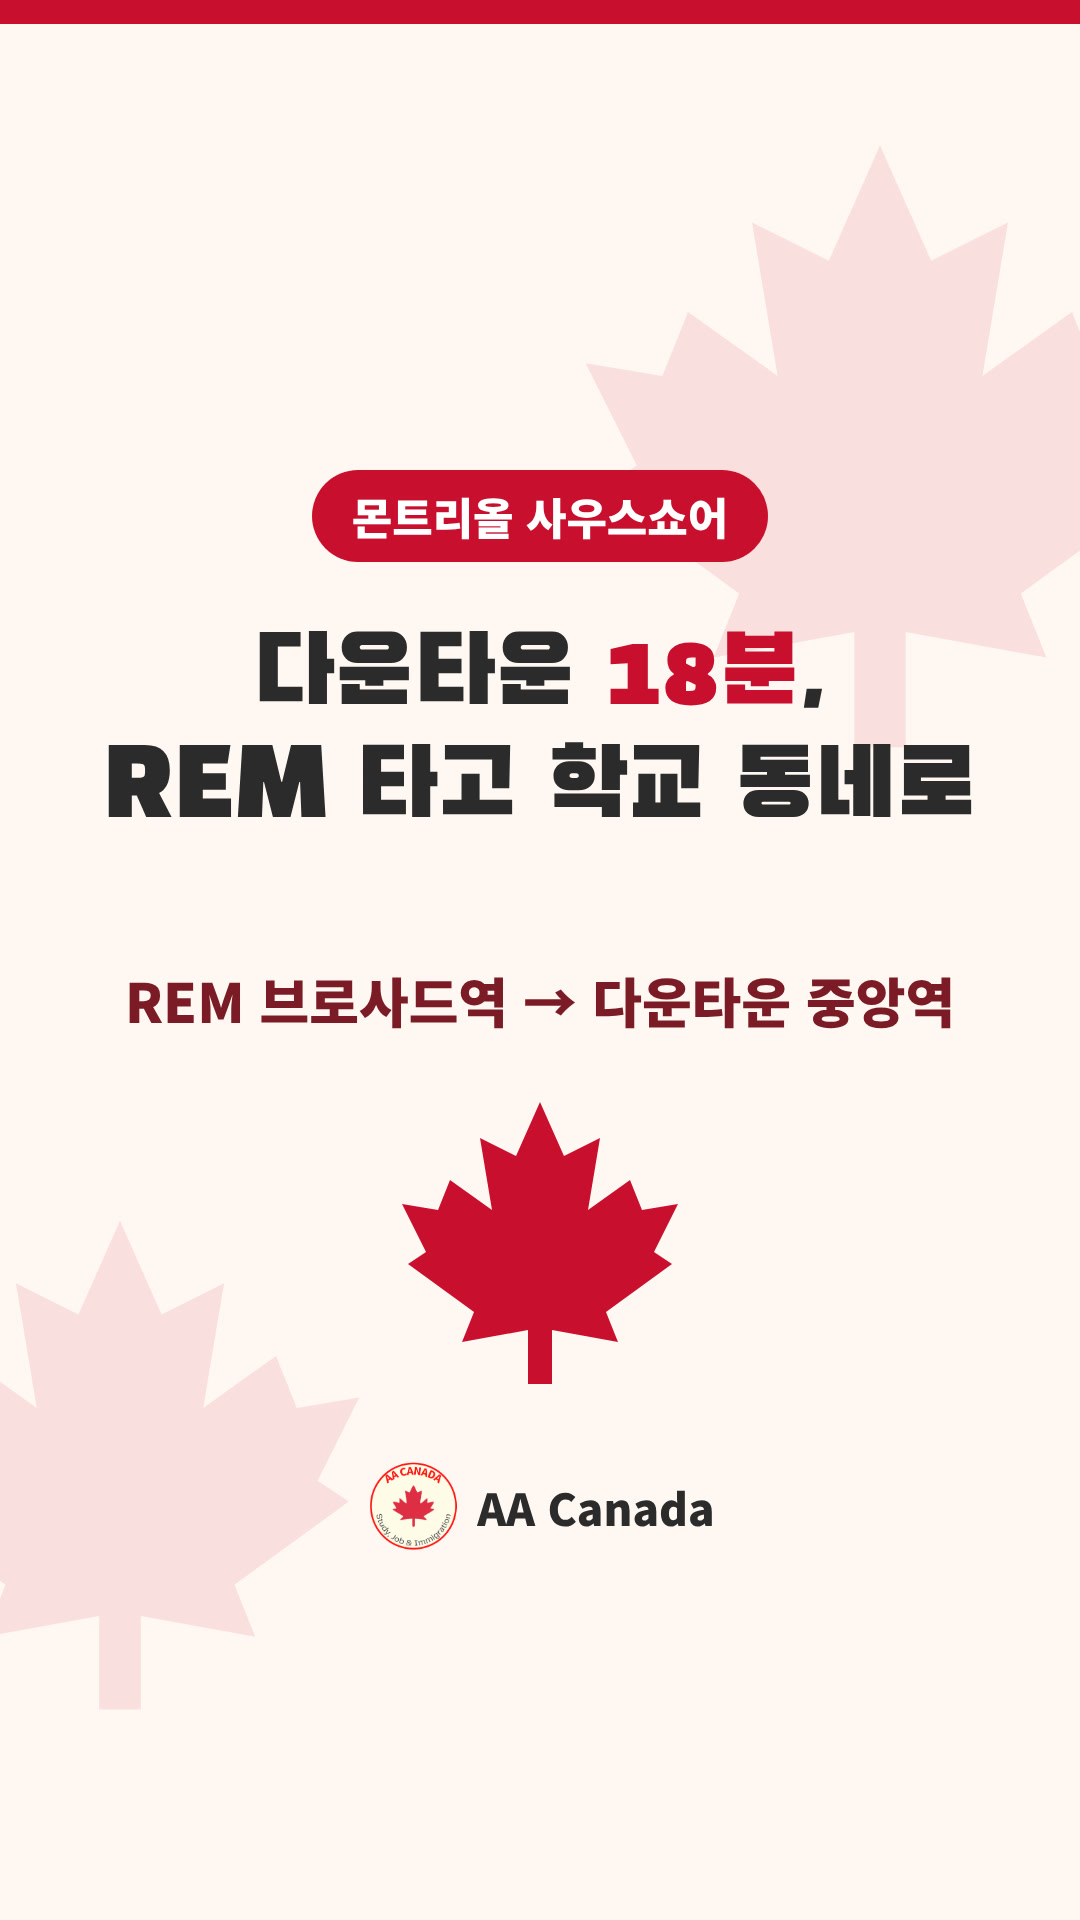
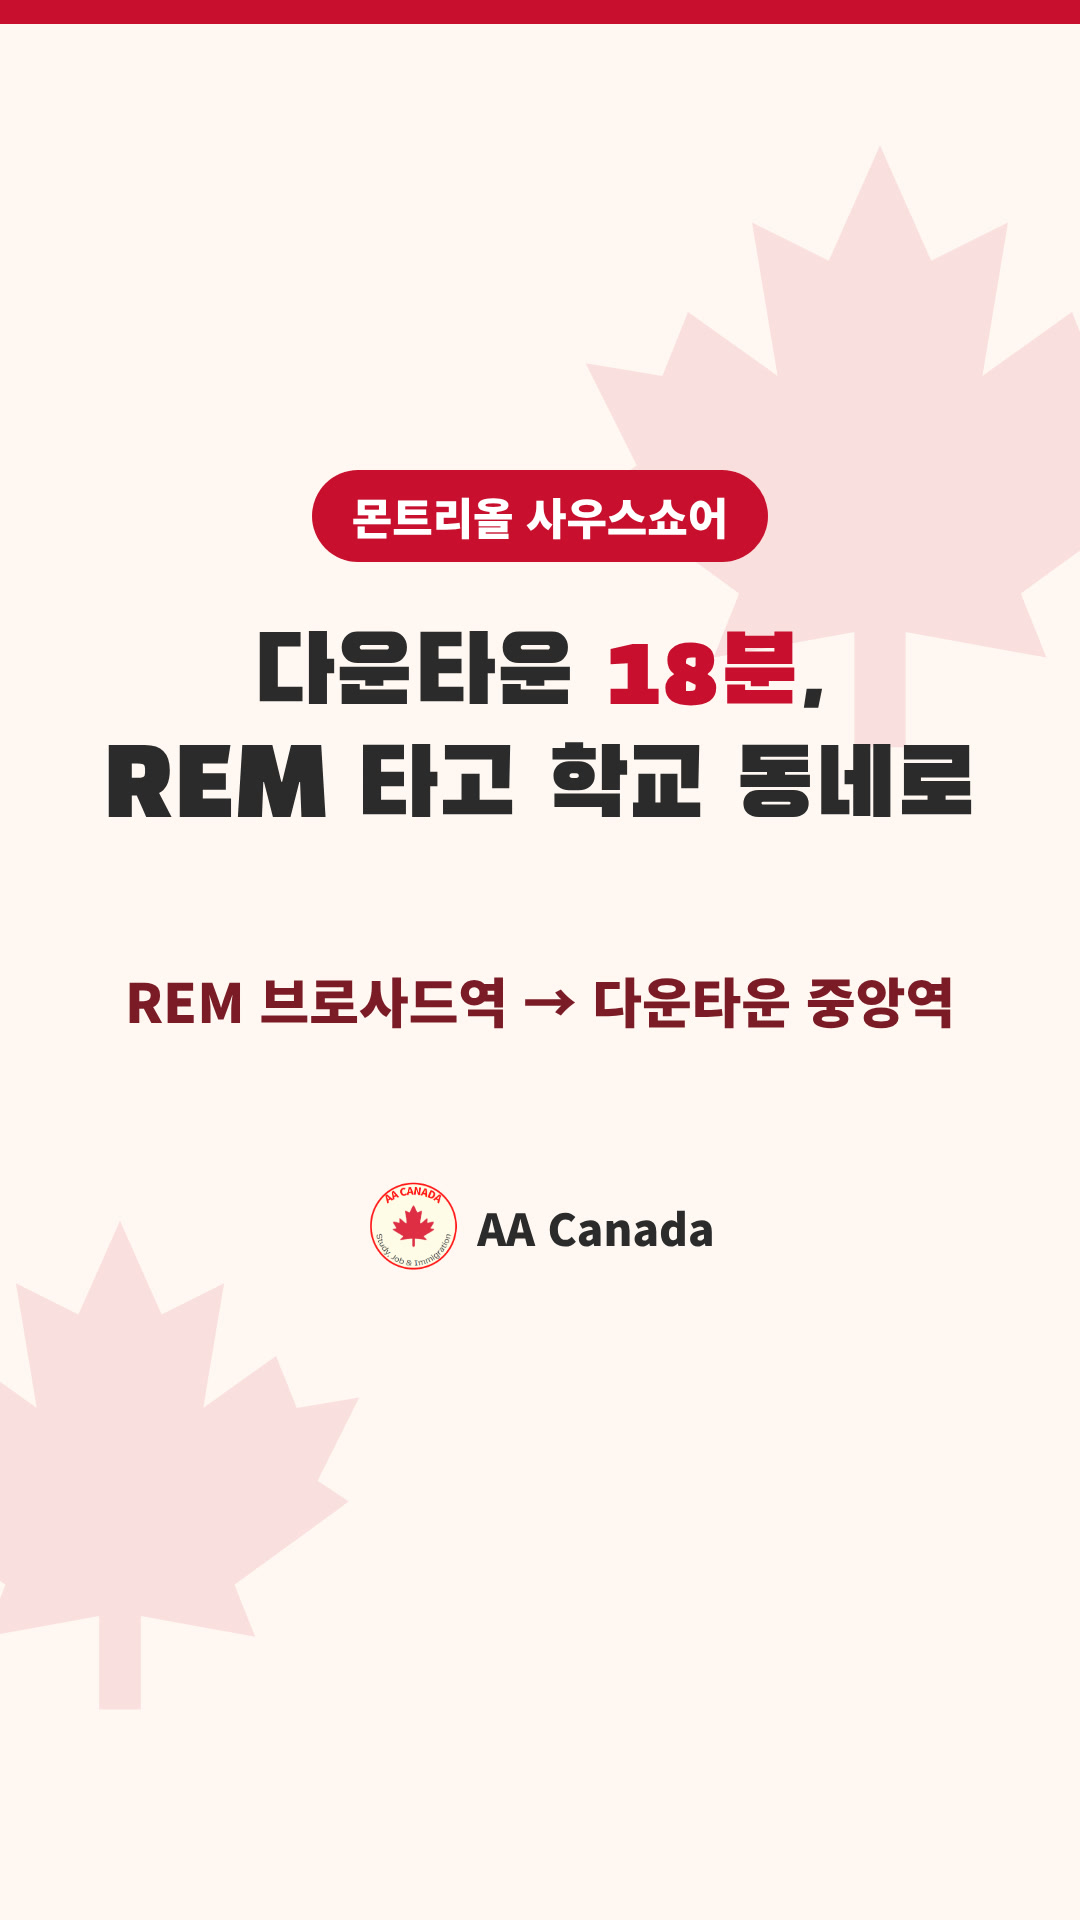
Southshore: upload text with per-number sources and AI voice notice, thumbnail/cover polish, runbook update
Claude-Session: https://claude.ai/code/session_01D6QrNFEyG7i3UbDKZQJvZW

Changed region(s): [[0.3361, 0.5625, 0.6722, 0.7188], [0.3361, 0.75, 0.6722, 0.8125]]

diff --git a/videos/southshore-longform/thumbnail/thumbnail.html b/videos/southshore-longform/thumbnail/thumbnail.html
@@ -102,7 +102,7 @@ html,body{width:1280px;height:900px;overflow:hidden;background:#FFF8F2;font-fami
 <div class="fade"></div>
 <div class="top"></div>
 <div class="t1">다운타운 <em>18분</em>인데</div>
-<div class="t2">한국인이<br>없다?</div>
+<div class="t2">한국인은<br>거의 없다?</div>
 <div class="band"><svg class="lf" viewBox="0 0 100 100"><path d="M50 4 L58 22 L70 16 L66 40 L80 30 L84 40 L96 38 L88 54 L94 58 L72 74 L76 84 L54 80 L54 98 L46 98 L46 80 L24 84 L28 74 L6 58 L12 54 L4 38 L16 40 L20 30 L34 40 L30 16 L42 22 Z"/></svg><div class="t">몬트리올 영어 공립학교 동네</div></div>
 <div class="logo"><img src="../assets/img/aa-canada-logo-transparent.png" alt="" />AA Canada</div>
 </body></html>

diff --git a/videos/southshore-longform/tools/short_covers.py b/videos/southshore-longform/tools/short_covers.py
@@ -30,14 +30,13 @@ html,body{{width:1080px;height:2100px;overflow:hidden;background:#FFF8F2;font-fa
 .title em{{font-style:normal;color:#C8102E}}
 .sub{{position:absolute;left:0;right:0;top:960px;text-align:center;font-weight:900;font-size:54px;color:#7A1B26}}
 .big{{position:absolute;left:390px;top:1090px;width:300px;height:300px}} .big path{{fill:#C8102E}}
-.logo{{position:absolute;left:0;right:0;top:1460px;display:flex;justify-content:center;align-items:center;gap:16px;font-weight:900;font-size:44px}}
+.logo{{position:absolute;left:0;right:0;top:1180px;display:flex;justify-content:center;align-items:center;gap:16px;font-weight:900;font-size:44px}}
 .logo img{{width:96px;height:93px}}
 </style></head><body><div class="bar"></div>
 <div class="leaf l1"><svg viewBox="0 0 100 100"><path d="{MAPLE}" fill="#C8102E"/></svg></div>
 <div class="leaf l2"><svg viewBox="0 0 100 100"><path d="{MAPLE}" fill="#C8102E"/></svg></div>
 <div class="chip"><span>몬트리올 사우스쇼어</span></div>
 <div class="title">{title}</div><div class="sub">{SUB[key]}</div>
-<svg class="big" viewBox="0 0 100 100"><path d="{MAPLE}"/></svg>
 <div class="logo"><img src="assets/img/aa-canada-logo-transparent.png" alt="" />AA Canada</div>
 </body></html>"""
     hp = os.path.join(d, "cover.html")

diff --git a/videos/southshore-longform/tools/thumbnail.py b/videos/southshore-longform/tools/thumbnail.py
@@ -74,5 +74,5 @@ def shot(name, html):
     print(f"thumbnail/{name}.jpg")
 
 
-shot("thumbnail", page("다운타운 <em>18분</em>인데", "한국인이<br/>없다?".replace("<br/>", " ").replace(" ", "<br>", 1), "몬트리올 영어 공립학교 동네"))
+shot("thumbnail", page("다운타운 <em>18분</em>인데", "한국인은<br>거의 없다?", "몬트리올 영어 공립학교 동네"))
 shot("thumbnail-b", page("몬트리올 남쪽", "영어 공립<br>학교 동네", "REM으로 다운타운 18분"))

diff --git a/videos/southshore-longform/PRODUCTION.md b/videos/southshore-longform/PRODUCTION.md
@@ -3,36 +3,21 @@
 브리프: `plans/southshore-longform/VIDEO_BRIEF.md` · 대본: `plans/southshore-longform/SCRIPT.txt` · 학교 영상: `plans/southshore-longform/assets/school-videos/`
 템플릿: 영유 롱폼(메이플 레드, `claude/jolly-tesla-u70qgi` 의 `videos/yeongyu-montreal-longform`)을 복사해 고친 것.
 
-## 현재 상태 (2026-10-22)
+## 현재 상태 (2026-10-23)
 
-- 녹음 전: **무음 + 가짜 타이밍**(글자당 0.21초)으로 10장면 전체 빌드, `npm run check` 통과(오류 0).
-- 지도: OSM 서버·위성 데이터는 샌드박스에서 막혀 있어 브리프의 대안대로 **실제 좌표 기반 스키매틱 지도**(`tools/geo.py`)를 직접 그림. 캐나다 전도는 svg-maps/canada (CC BY 4.0).
-- B-roll: `tools/clips.py` 가 학교 영상 4개에서 28개 구간을 잘라 `assets/clips/` (16:9, 무음). 구간은 `plans/riverside-video/01_TIMESTAMP_SHEET.md` 기준, 학생 얼굴 클로즈업 제외.
-- 숏폼 5편: `../southshore-shorts/short-a ~ e` (index.html, cover.jpg, upload-text.txt). 음성은 녹음이 오면 자동으로 붙음.
-- 썸네일: `thumbnail/thumbnail.jpg` (기본안 "다운타운 18분인데 한국인이 없다?"), `thumbnail/thumbnail-b.jpg` (대안).
+- 음성: 원장님 녹음 대신 **ElevenLabs "일곱번째"** (voice vxpRrQegUpenYtez6hz1, eleven_multilingual_v2). `tools/tts.py` 가 장면별
+  `plans/southshore-longform/audio/ss_s01~s10.mp3` + with-timestamps 정렬을 만들고, 자막 타이밍은 그 정렬로 맞춤(자막은 대본 원문,
+  TTS에는 숫자를 한국어로 풀어 쓴 발음 텍스트 `SAY`). 총 6:13.6. Whisper로 다시 받아 적어 대본과 대조함(빠진 문장 없음).
+- 대본 수정(원장님 지시): s04 "인구의 2~3% 수준" → "비중이 아주 낮은 편", "아시아계가 인구의 20% 정도" → "아시아계 주민이 꽤 많습니다".
+  화면의 % 표기(아시아계 원 안의 2%·3%·20%)도 삭제, 원 크기만 남김.
+- B-roll: 생랑베르 인터내셔널 입구 클립은 RSB 로고 타이틀 카드가 끝난 뒤 구간(2.3~3.9s)으로 바꿈.
 
-## 녹음이 오면 (Aside가 `plans/southshore-longform/audio/ss_s01.m4a ~ ss_s10.m4a` 업로드)
-
-```bash
-cd videos/southshore-longform
-pip install sherpa-onnx fonttools brotli numpy
-# ASR 모델 (huggingface 막힘, GitHub releases 사용):
-#   github.com/k2-fsa/sherpa-onnx/releases/download/asr-models/sherpa-onnx-zipformer-korean-2024-06-24.tar.bz2
-#   github.com/k2-fsa/sherpa-onnx/releases/download/asr-models/sherpa-onnx-whisper-turbo.tar.bz2
-YV_ASR_DIR=<models dir> YV_REDO_ASR=1 python3 -I tools/audio_prep.py   # 트림(앞뒤 0.3s)·노이즈·-16 LUFS + ASR
-python3 -I tools/asr_check.py > ASR_CHECK.md                           # 대본과 다르게 읽은 줄 + 숫자 누락 표시
-# ↑ 결과를 세션에 보고하고, 다르게 읽은 줄은 tools/script.py 행을 실제 말에 맞춤(숫자·사실은 바꾸지 않음).
-#   더듬은 곳/재녹음 테이크는 tools/voice_edits.json 에 raw 시간으로 적어 잘라냄.
-python3 -I tools/build.py                 # timing.json(실제 길이), compositions/, index.html 재생성
-YV_FONTSRC=<npm pack @fontsource/black-han-sans @fontsource/noto-sans-kr 풀어 둔 폴더> python3 tools/fonts.py
-python3 -I tools/build.py && python3 -I tools/shorts.py && python3 -I tools/thumbnail.py && python3 -I tools/short_covers.py
-python3 -I tools/upload_text.py           # 챕터 시간이 실제 녹음 기준으로 바뀜
-npm run check && npx hyperframes render -q delivery -o renders/video.mp4
-cd ../southshore-shorts/short-a && npx hyperframes render -o ../renders/short-a.mp4   # b~e 동일
-```
-
-- 장면 사이 여백 0.4s, 첫 장면 0.5s, 마지막 엔드카드 4s 유지(`tools/timing.py`).
-- 100MB 넘으면 기존처럼 `video.mp4.part-00/01` + `video.mp4.sha256` 으로 나눔.
+### 디자인 다듬기 (frontend-design 기준, 2026-10-23)
+- 장면 머리표 "— 3 · 제목"(대시+가운뎃점 템플릿 표기) → 빨간 숫자 칸 + 제목. 장(章) 순서라 번호는 유지.
+- 카드: 모든 카드에 같던 큰 반경·흐린 그림자 → 반경 20px, 얇은 와인색 테두리와 짧은 아래 그림자. 빨강 카드는 진한 아래 선, 분홍 카드는 그림자 없음.
+- 배경 점무늬 농도 절반, 큰 제목(Black Han Sans) 자간 -0.02em, 출처 줄 23px + 크림색 외곽으로 지도 위 대비 확보.
+- 쇼츠: 하단 480px 비움(로고는 맨 위, CTA는 제목 아래로 이동), 커버의 장식용 큰 단풍잎 삭제.
+- 썸네일 "한국인이 없다?" → "한국인은 거의 없다?" (원장님 표현 원칙 "한국 사람이 거의 없는"과 맞춤, 단정 표현 제거).
 
 ## 파일 지도
 
